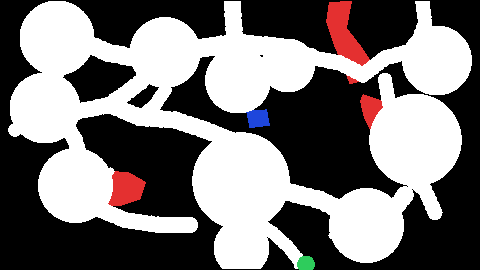
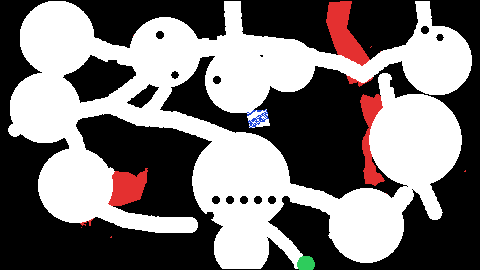
Make every area playable like verdant: art-true masks + an anti-pin guarantee
- floorpolys art post-pass on all hand-spec floors: WATER cells over bright
  paint (boardwalks, tile rooms the old hand rects clipped) carve to WALK;
  dim blue-strong deep pools survive — marsh and ashenveil lose their
  invisible water walls
- caverns lava paint becomes HAZARD: you can walk it, it burns your feet —
  the lava you see now does what it looks like
- paint order v3: painted bodies -> big open carves -> precise authored
  rects/discs on top; hall openRects can no longer erase the throne plinth,
  the statue base or the colonnade, while stair bowls stay carved
- AshenGame.unstickCheck: BFS on the mask grid to the true nearest open cell
  (hazard as last resort) fires whenever geometry ends up under the player —
  stale saves from older masks, late collision.png loads, bad editor drafts.
  The old snap-back-to-lastSafe net pinned players forever when both ends were
  solid: exactly the 'can't move an inch' report from area 2. Trapped coords
  never re-enter the ledger; the save marks dirty and re-anchors on landing
- scripts/movecheck.mts: all landing spots (spawn/exit stubs/rests/boss feet)
  walkable on all five floors + deliberate deep-trap rescue tests (citadel
  gallery hall included) all re-anchor
- floordiag: probes pinned to painted truth (real tent prop, statue plinth,
  pool centers, lava tongue, throne band); exit probes auto-derive from
  objects.json pad centers. All 5 floors: probes failing 0

diff --git a/src/game/view.ts b/src/game/view.ts
@@ -69,6 +69,7 @@ export class AshenGame {
   private saveDirtyT = -1;
   private autoSaveT = 40;
   private savedT = 0;
+  private unstickCd = 0;
   private pageHide = () => { if (this.started) this.saveGame(true); };
   // --- ART V3 / objective pointer / creator ---
   private pointerOn = true;
@@ -321,6 +322,8 @@ export class AshenGame {
       else this.stuckT += dt;
       if (this.stuckT > 600 && !this.hintShown.has(nid)) { this.hintShown.add(nid); this.toastNow("[STUCK?] " + node.hint); }
     }
+    this.unstickCd -= dt;
+    this.unstickCheck(); // every floor must stay walkable, whatever the save said
     const inp = this.input;
     const lvl = useGame.getState().level;
     const dash = lvl >= 5 && inp.down("menu");
@@ -344,7 +347,8 @@ export class AshenGame {
       // SAFETY NET: if the ground turns solid under you (late collision.png
       // load, an editor paint stroke), snap to the last valid spot and warn ONCE.
       if (!this.noclip && posBlocked(this.floor, this.px, this.py, flags)) {
-        this.px = this.lastSafe.x; this.py = this.lastSafe.y;
+        if (posBlocked(this.floor, this.lastSafe.x, this.lastSafe.y, flags)) this.unstickCheck(); // both ends blocked: slide out, don't pin
+        else { this.px = this.lastSafe.x; this.py = this.lastSafe.y; }
         if (!this.warnedSolid) {
           this.warnedSolid = true;
           console.warn("[ashenveil] player entered a solid cell — snapped to last valid position (mask changed underfoot?)");
@@ -1267,7 +1271,72 @@ export class AshenGame {
     Sfx.levelup();
   }
   private markSaveDirty() { if (this.saveDirtyT < 0) this.saveDirtyT = 1.4; }
-  private saveGame(quiet = false) {
+  /** No floor gets to keep you. Stale saves, late mask loads or a bad editor
+   * draft can park the player inside geometry — and the snap-back net would
+   * then pin them forever ("can't move an inch"). Slide to the nearest open
+   * cell and say so. Returns true if the player ended the call on clear ground. */
+  private unstickCheck(): boolean {
+    if (this.noclip) return true;
+    const flags = this.flags as unknown as Record<string, boolean>;
+    if (!posBlocked(this.floor, this.px, this.py, flags)) { this.unstickCd = 0; return true; }
+    if (this.unstickCd > 0) return false;
+    const land = (x: number, y: number) => {
+      this.warpPlayer(x, y);
+      Sfx.hurt();
+      this.toast = { text: "[THE GROUND REFUSES YOU — slid to the nearest solid footing]", t: 2.8 };
+      console.warn(`[ashenveil] player was pinned in geometry on ${this.regionId} — re-anchored`);
+      this.markSaveDirty(); // the trapped coords must never re-enter the ledger
+      this.unstickCd = 2;
+    };
+    // BFS over the mask grid: the TRUE nearest open cell, no matter how deep the
+    // hall a stale save parked you in. Ring sampling gave up at ~160u and pinned people.
+    const m = this.floor.mask;
+    const W = m.cw, H = m.ch;
+    const seen = new Uint8Array(W * H);
+    const q: number[] = [];
+    const x0 = clamp(Math.floor(this.px / m.cell), 0, W - 1);
+    const y0 = clamp(Math.floor(this.py / m.cell), 0, H - 1);
+    q.push(y0 * W + x0); seen[q[0]] = 1;
+    const tryCell = (j: number, accept: (v: number) => boolean): boolean => {
+      const v = m.cells[j];
+      if (!accept(v)) return false;
+      const fx = (j % W) * m.cell + m.cell / 2, fy = ((j / W) | 0) * m.cell + m.cell / 2;
+      if (posBlocked(this.floor, fx, fy, flags)) return false;
+      land(fx, fy);
+      return true;
+    };
+    const isLand = (v: number) => v === 0 || v === 4;
+    let head = 0;
+    for (; head < q.length; head++) {
+      const i = q[head], x = i % W, y = (i / W) | 0;
+      for (const [dx, dy] of [[1, 0], [-1, 0], [0, 1], [0, -1]] as const) {
+        const nx = x + dx, ny = y + dy;
+        if (nx < 0 || ny < 0 || nx >= W || ny >= H) continue;
+        const j = ny * W + nx;
+        if (seen[j]) continue;
+        seen[j] = 1;
+        if (isLand(m.cells[j]) && tryCell(j, isLand)) return true;
+        q.push(j);
+      }
+    }
+    // last resort: a hazard cell beats a permanent freeze (it burns, but you can walk)
+    seen.fill(0); q.length = 0; q.push(y0 * W + x0); seen[q[0]] = 1;
+    for (head = 0; head < q.length; head++) {
+      const i = q[head], x = i % W, y = (i / W) | 0;
+      for (const [dx, dy] of [[1, 0], [-1, 0], [0, 1], [0, -1]] as const) {
+        const nx = x + dx, ny = y + dy;
+        if (nx < 0 || ny < 0 || nx >= W || ny >= H) continue;
+        const j = ny * W + nx;
+        if (seen[j]) continue;
+        seen[j] = 1;
+        if (m.cells[j] === 3 && tryCell(j, () => true)) return true;
+        q.push(j);
+      }
+    }
+    this.unstickCd = 3; // nothing found yet (mask may still be loading): retry soon, silently
+    return false;
+  }
+private saveGame(quiet = false) {
     writeSave<WorldSaveData>(SAVE_KEY, { region: this.regionId, x: this.px, y: this.py, flags: this.flags });
     this.flags.saved = true;
     this.saveDirtyT = -1;

diff --git a/ART_LAYOUT_NOTES.md b/ART_LAYOUT_NOTES.md
@@ -124,3 +124,24 @@ F2 editor. Coordinates are ground.png px (= world units, 1920×1080).
     (prop stamps — verdant has none with colliders — NPC/sign/rest/boss/spawn/exit pads,
     border ring preserving EXIT cells). roads/plaza/camp aisles are OPEN by construction.
     scripts/maskdiff.mts re-verifies agreement against the ref (0.04%).
+
+42. V5 — every-area-playable sweep (2026-10-27). Two changes under the same rule
+    the verdant V4 trace proved: collision may only sit on painted impassables.
+    (a) floorpolys art post-pass (all hand-spec floors): WATER cells whose art
+    underneath is bright (luma>=75 and (luma>=100 or blue-minus-red<=30)) are
+    carved to WALK — the old hand-guessed water rects sat on top of the marsh
+    boardwalks and ashenveil's tile rooms; deep pools (dim, blue-strong) survive.
+    caverns lava paint (orange votes) becomes HAZARD: walkable, burns feet, and
+    finally does what it looks like. Paint order v3: painted solids first, the
+    big open volumes carve them, then PRECISE authored rects/discs (throne,
+    statue plinth, colonnade) re-stamp on top — a hall openRect can no longer
+    erase a deliberate blocker, and stair bowls stay carved through wall bands.
+    (b) The anti-pin guarantee (view.ts unstickCheck): if geometry ever ends up
+    under the player (stale save from an older mask, late collision.png load,
+    a bad editor draft), a mask-grid BFS slides them to the TRUE nearest open
+    cell (hazard as last resort) with a sting + toast — the old snap-back net
+    restored a lastSafe that could be equally trapped, which is exactly the
+    "can't move an inch" freeze reported on area 2. Verified by scripts/
+    movecheck.mts: all landing spots (spawn/exits/rests/boss) walkable on all
+    five floors, and four deliberate deep-trap spots (inside the citadel gallery
+    hall!) all re-anchor within seconds.
